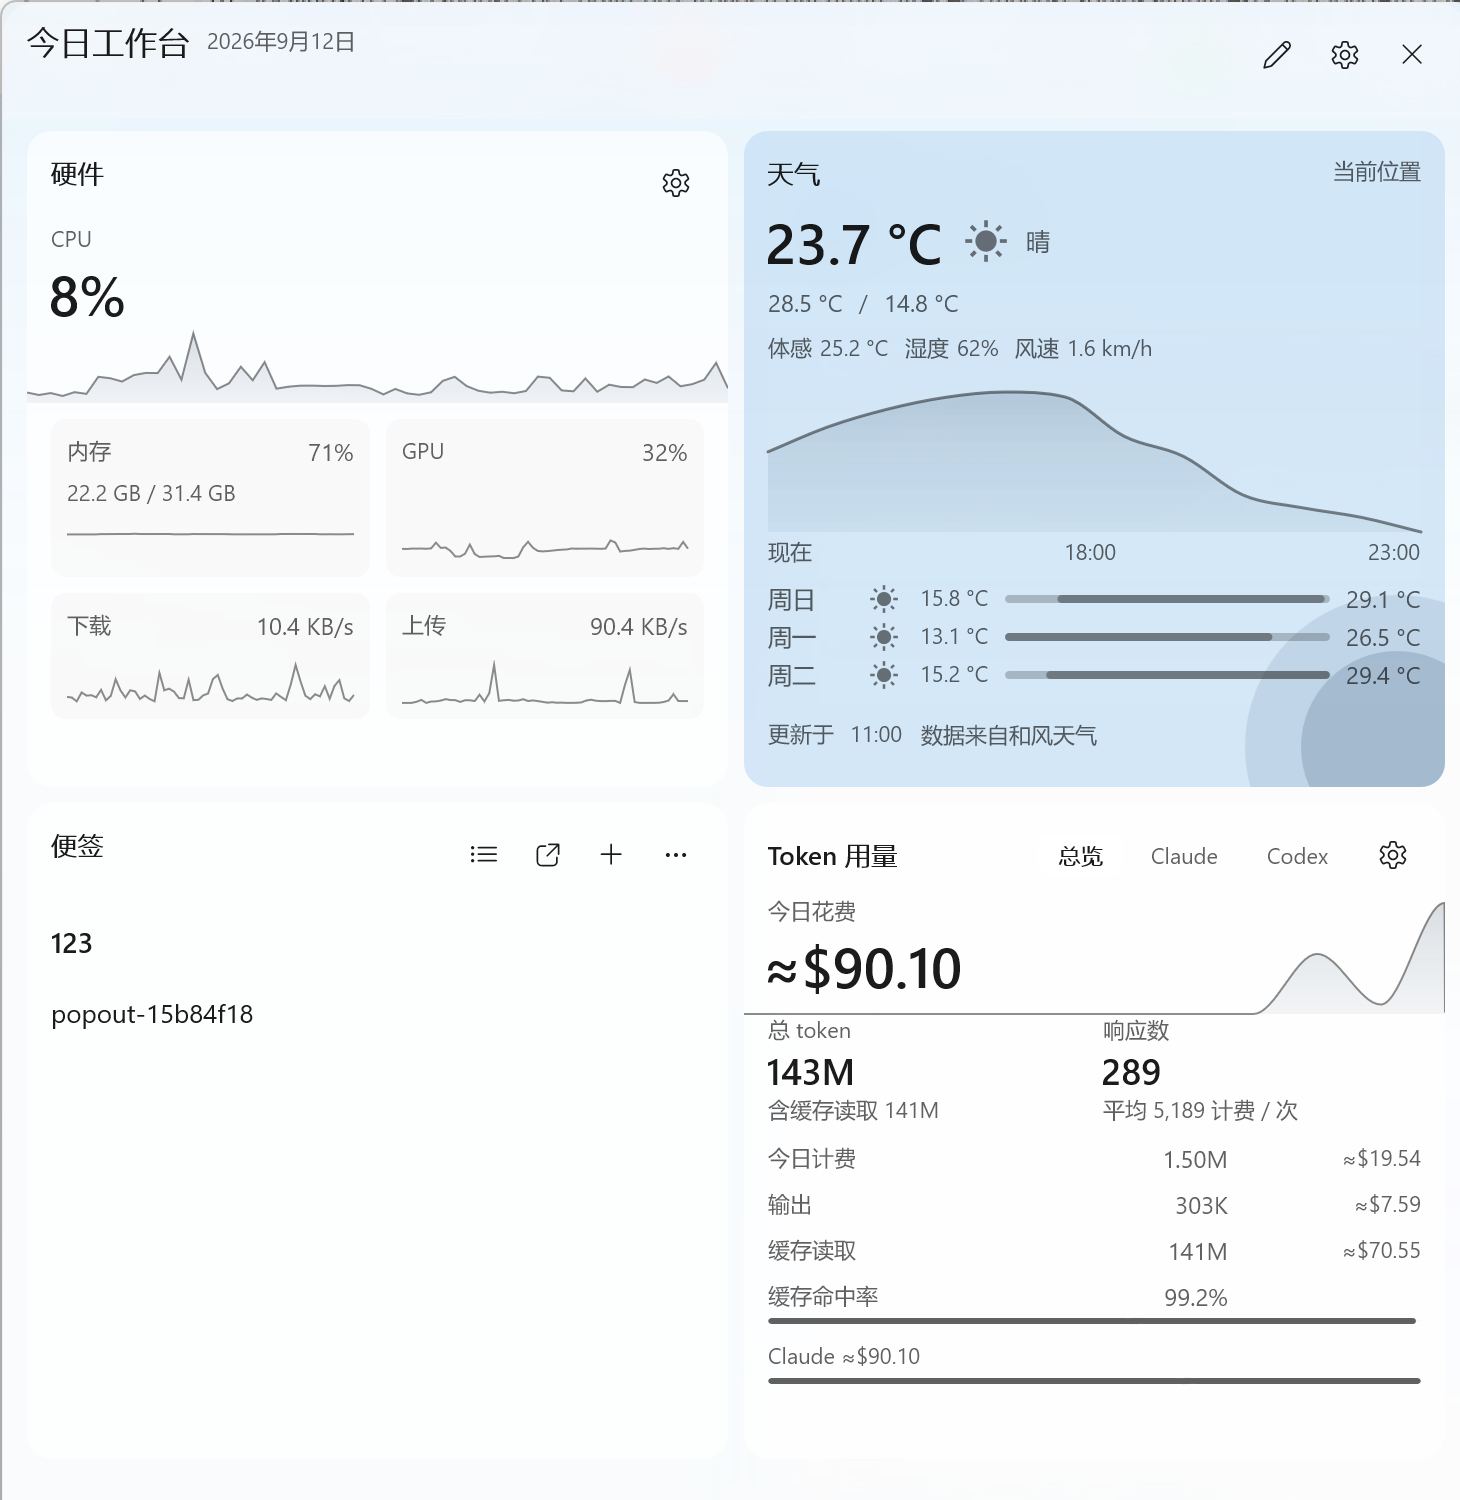
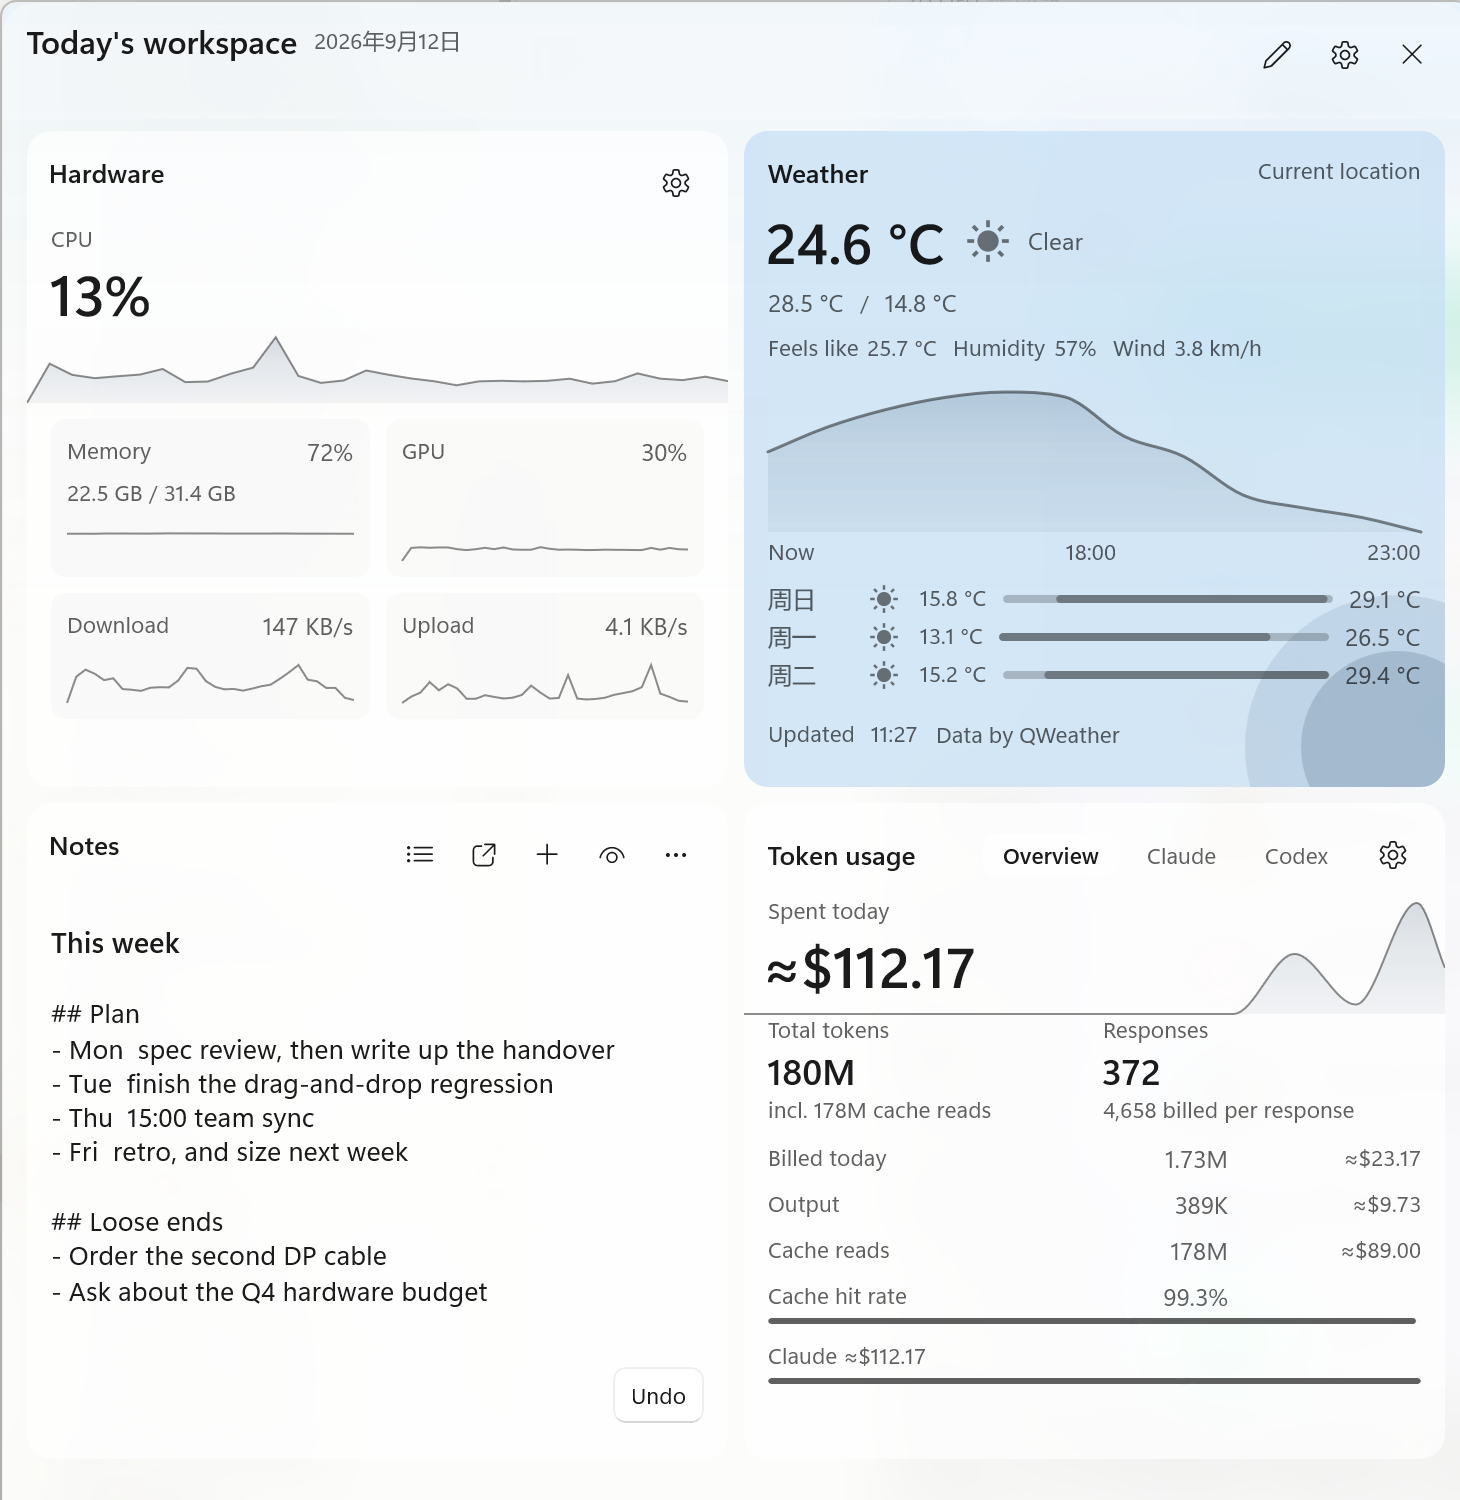
docs(readme): reshoot the screenshots on demo data, one per language
The first capture was the maintainer's live panel: the notes card held two
throwaway notes ("123") and most of it was empty, which is not what the card
looks like in use.

Both shots now come from an isolated instance - a copy of the database in a
temp directory with the notes restated as demo content - so production data is
never written to. The English README gets an English-UI capture and the Chinese
one its own, taken by reordering the Windows language list for the run and
restoring it afterwards; the panel resolves its language from that list, not
from the display-language override.

Dates and weekday names stay Chinese in the English capture because they follow
the Windows regional format, which is a separate setting that only applies at
sign-in. The README says so rather than leaving it to look like a bug.

diff --git a/README.zh-CN.md b/README.zh-CN.md
@@ -11,7 +11,7 @@
 
 [English](README.md) | 简体中文
 
-<img src="docs/assets/panel.png" alt="WinWidgetBoard 面板：硬件、天气、便签与 Token 用量卡片排布在响应式网格上" width="820">
+<img src="docs/assets/panel.zh-CN.png" alt="WinWidgetBoard 面板：硬件、天气、便签与 Token 用量卡片排布在响应式网格上" width="820">
 
 </div>
 
@@ -20,6 +20,8 @@
 
 它**不注入** `explorer.exe`，不挂钩 Shell，也不读取 Explorer 的私有 XAML 树。入口是应用自有的普通
 Win32 窗口，位置由公开几何推导；几何无法确认时宁可隐藏或降级，也不猜测。
+
+> 中英文界面随包提供，面板跟随 Windows 显示语言；英文界面的截图见 [English README](README.md)。
 
 ## 能力
 

diff --git a/README.md b/README.md
@@ -23,8 +23,9 @@ It does **not** inject into `explorer.exe`, hook the shell, or read Explorer's p
 The entry is an ordinary Win32 window of our own, positioned from public geometry — when that
 geometry is ambiguous it hides or degrades rather than guessing.
 
-> The screenshots show a Chinese Windows install. The app ships English and Chinese resources and
-> follows your Windows display language.
+> English and Chinese both ship in the box and the panel follows your Windows display language.
+> Dates and weekday names follow your Windows *regional format*, which is a separate setting —
+> which is why they stay Chinese in this capture.
 
 ## What it does
 
